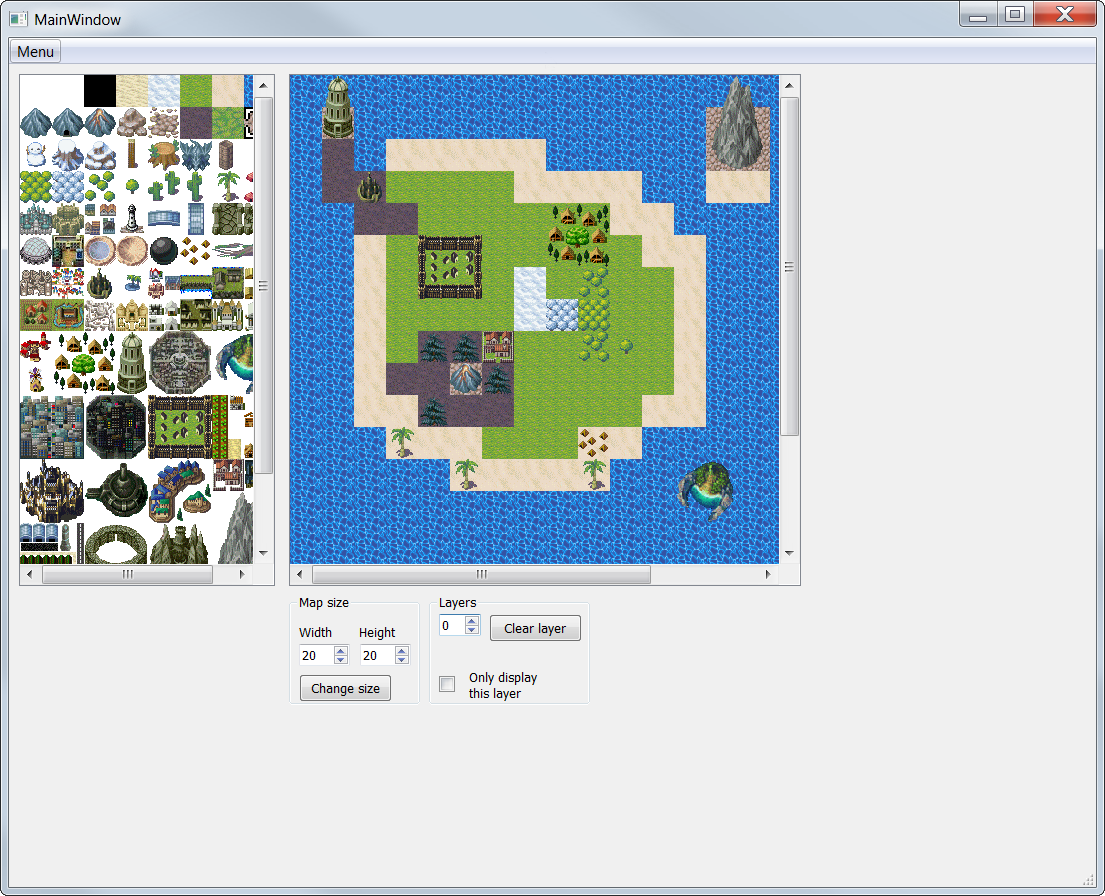
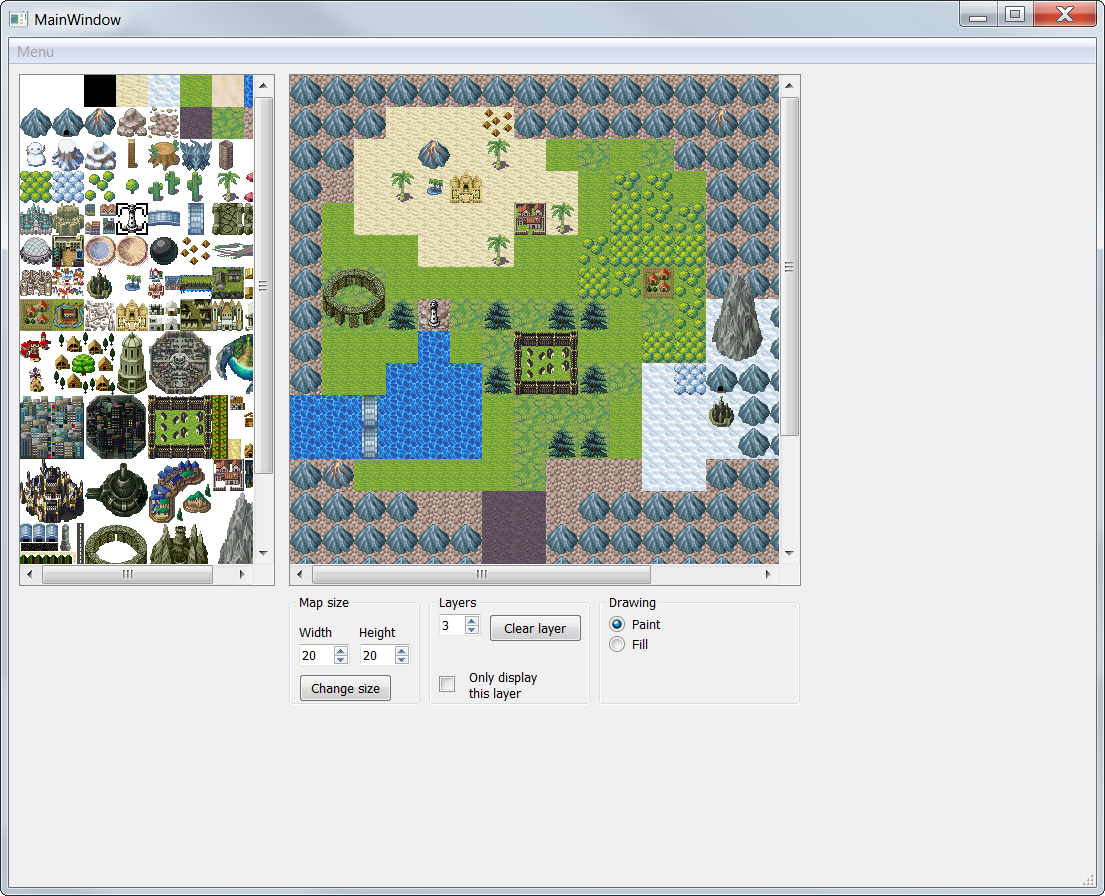
:construction: :tada: New paint modes

Changed region(s): [[0.2154, 0.0625, 0.7077, 0.7188], [0.0, 0.0312, 0.0615, 0.0625]]

diff --git a/ui/main_gui.py b/ui/main_gui.py
@@ -50,6 +50,8 @@ class Ui_MainWindow(object):
 
         self.remove_mode = False
 
+        self.drawing_style = 'paint'
+
     def setupUi(self, MainWindow):
         MainWindow.setObjectName("MainWindow")
         MainWindow.resize(1087, 849)
@@ -103,6 +105,15 @@ class Ui_MainWindow(object):
         self.pushButton_clear_layer = QtWidgets.QPushButton(self.groupBox_layers)
         self.pushButton_clear_layer.setGeometry(QtCore.QRect(60, 20, 93, 28))
         self.pushButton_clear_layer.setObjectName("pushButton_clear_layer")
+        self.groupBox_drawing = QtWidgets.QGroupBox(self.centralwidget)
+        self.groupBox_drawing.setGeometry(QtCore.QRect(590, 530, 201, 111))
+        self.groupBox_drawing.setObjectName("groupBox_drawing")
+        self.radioButton_paint = QtWidgets.QRadioButton(self.groupBox_drawing)
+        self.radioButton_paint.setGeometry(QtCore.QRect(10, 20, 95, 20))
+        self.radioButton_paint.setObjectName("radioButton_paint")
+        self.radioButton_fill = QtWidgets.QRadioButton(self.groupBox_drawing)
+        self.radioButton_fill.setGeometry(QtCore.QRect(10, 40, 95, 20))
+        self.radioButton_fill.setObjectName("radioButton_fill")
         MainWindow.setCentralWidget(self.centralwidget)
         self.menubar = QtWidgets.QMenuBar(MainWindow)
         self.menubar.setGeometry(QtCore.QRect(0, 0, 1087, 26))
@@ -138,6 +149,9 @@ class Ui_MainWindow(object):
         self.groupBox_layers.setTitle(_translate("MainWindow", "Layers"))
         self.label_only_display_layer.setText(_translate("MainWindow", "Only display this layer"))
         self.pushButton_clear_layer.setText(_translate("MainWindow", "Clear layer"))
+        self.groupBox_drawing.setTitle(_translate("MainWindow", "Drawing"))
+        self.radioButton_paint.setText(_translate("MainWindow", "Paint"))
+        self.radioButton_fill.setText(_translate("MainWindow", "Fill"))
         self.menuMenu.setTitle(_translate("MainWindow", "Menu"))
         self.actionImport_tileset.setText(_translate("MainWindow", "Import tileset"))
         self.actionImport_map.setText(_translate("MainWindow", "Import map"))
@@ -151,6 +165,9 @@ class Ui_MainWindow(object):
         self.checkBox_only_display_layer.stateChanged.connect(self.draw_map)
         self.pushButton_clear_layer.clicked.connect(self.clear_layer)
 
+        self.radioButton_paint.toggled.connect(lambda:self.change_drawing_style(self.radioButton_paint))
+        self.radioButton_fill.toggled.connect(lambda:self.change_drawing_style(self.radioButton_fill))
+
         self.graphicsScene_tileset.mousePressEvent = self.select_tile
 
         self.graphicsScene_map.mousePressEvent = self.mouse_pressed
@@ -160,6 +177,7 @@ class Ui_MainWindow(object):
     def hide_components(self):
         self.groupBox_map_size.hide()
         self.groupBox_layers.hide()
+        self.groupBox_drawing.hide()
         self.graphicsView_map.hide()
         self.graphicsView_tileset.hide()
 
@@ -239,6 +257,8 @@ class Ui_MainWindow(object):
 
         self.graphicsView_map.show()
         self.groupBox_layers.show()
+        self.groupBox_drawing.show()
+        self.radioButton_paint.setChecked(True)
 
     def import_map(self):
         pass
@@ -264,14 +284,19 @@ class Ui_MainWindow(object):
         """
         self.current_layer = self.spinBox_current_layer.value()
 
+    def change_drawing_style(self, button):
+        if button.text() == 'Paint':
+            self.drawing_style = 'paint'
+        elif button.text() == 'Fill':
+            self.drawing_style = 'fill'
+
     def add_tile_on_map(self, event):
-        # Grid coordinates
         x = floor(event.scenePos().x() / self.tile_size[0]) * self.tile_size[0]
         y = floor(event.scenePos().y() / self.tile_size[1]) * self.tile_size[1]
 
         if x >= self.map_canvas_size[0] or y >= self.map_canvas_size[1]:
             return
-
+        # Grid coordinates
         x_grid = int(x / self.tile_size[0])
         y_grid = int(y / self.tile_size[1])
 
@@ -283,6 +308,55 @@ class Ui_MainWindow(object):
 
         if tile_to_delete:
             self.graphicsScene_map.removeItem(tile_to_delete)
+
+        self.draw_map()
+
+    def get_neighbors(self, origin, node_list):
+        nei = [(origin[0] - 1, origin[1]),
+               (origin[0] + 1, origin[1]),
+               (origin[0], origin[1] - 1),
+               (origin[0], origin[1] + 1)]
+
+        if set(nei) <= set(node_list):
+            return nei
+
+        return [x for x in nei if x in node_list]
+
+    def get_adjacent(self, x_origin, y_origin, original_tile):
+        final_tile_list = set()
+        visited_nodes = set()
+        queue = []
+        queue.append((x_origin, y_origin))
+        node_list = [(x, y) for x in range(floor(self.map_canvas_size[0] / self.tile_size[0])) for y in range(floor(self.map_canvas_size[1] / self.tile_size[1]))]
+
+        while queue:
+            node = queue.pop(0)
+            if (node not in visited_nodes
+            and np.array_equal(self.map_as_array[node[0], node[1], self.current_layer], original_tile)):
+                final_tile_list.add(node)
+                visited_nodes.add(node)
+
+                for neighbor in self.get_neighbors(node, node_list):
+                    if neighbor not in final_tile_list:
+                        queue.append(neighbor)
+
+        return final_tile_list
+
+
+    def fill_with_tile(self, event):
+
+        x = event.scenePos().x()
+        y = event.scenePos().y()
+
+        x_grid = floor(x / self.tile_size[0])
+        y_grid = floor(y / self.tile_size[1])
+
+        original_tile = self.map_as_array[x_grid, y_grid, self.current_layer]
+
+        tiles_to_fill = list(self.get_adjacent(x_grid, y_grid, original_tile))
+
+        for tile_to_paint in tiles_to_fill:
+            self.map_as_array[tile_to_paint[0], tile_to_paint[1], self.current_layer] = self.selected_tile_coord
 
         self.draw_map()
 
@@ -318,16 +392,29 @@ class Ui_MainWindow(object):
             self.draw_map()
 
     def mouse_pressed(self, event):
-        self.is_dragging = True
-        self.add_tile_on_map(event)
+        if self.drawing_style == 'paint':
+            self.is_dragging = True
+            self.add_tile_on_map(event)
+
+        elif self.drawing_style == 'fill':
+            self.fill_with_tile(event)
 
 
     def mouse_released(self, event):
-        self.is_dragging = False
-        self.last_coordinates = [-1, -1]
+        if self.drawing_style == 'paint':
+            self.is_dragging = False
+            self.last_coordinates = [-1, -1]
 
     def mouse_moved(self, event):
         if not self.is_dragging:
+            return
+
+        # No need to do the rest of the function if the mouse isn't in the map
+        if event.scenePos().x() > self.map_canvas_size[0] or event.scenePos().y() > self.map_canvas_size[1]:
+            return
+
+        # For now, this function is only used to paint
+        if self.drawing_style != 'paint':
             return
 
         x = floor(event.scenePos().x() / self.tile_size[0])

diff --git a/ui/aaa.py b/ui/aaa.py
@@ -1,0 +1,112 @@
+# -*- coding: utf-8 -*-
+
+# Form implementation generated from reading ui file 'main.ui'
+#
+# Created by: PyQt5 UI code generator 5.11.3
+#
+# WARNING! All changes made in this file will be lost!
+
+from PyQt5 import QtCore, QtGui, QtWidgets
+
+class Ui_MainWindow(object):
+    def setupUi(self, MainWindow):
+        MainWindow.setObjectName("MainWindow")
+        MainWindow.resize(1087, 849)
+        self.centralwidget = QtWidgets.QWidget(MainWindow)
+        self.centralwidget.setObjectName("centralwidget")
+        self.graphicsView_map = QtWidgets.QGraphicsView(self.centralwidget)
+        self.graphicsView_map.setGeometry(QtCore.QRect(280, 10, 512, 512))
+        self.graphicsView_map.setAlignment(QtCore.Qt.AlignLeading|QtCore.Qt.AlignLeft|QtCore.Qt.AlignTop)
+        self.graphicsView_map.setDragMode(QtWidgets.QGraphicsView.NoDrag)
+        self.graphicsView_map.setTransformationAnchor(QtWidgets.QGraphicsView.AnchorViewCenter)
+        self.graphicsView_map.setObjectName("graphicsView_map")
+        self.graphicsView_tileset = QtWidgets.QGraphicsView(self.centralwidget)
+        self.graphicsView_tileset.setGeometry(QtCore.QRect(10, 10, 256, 512))
+        self.graphicsView_tileset.setObjectName("graphicsView_tileset")
+        self.groupBox_map_size = QtWidgets.QGroupBox(self.centralwidget)
+        self.groupBox_map_size.setGeometry(QtCore.QRect(280, 530, 131, 111))
+        self.groupBox_map_size.setObjectName("groupBox_map_size")
+        self.spinBox_map_width = QtWidgets.QSpinBox(self.groupBox_map_size)
+        self.spinBox_map_width.setGeometry(QtCore.QRect(10, 50, 51, 22))
+        self.spinBox_map_width.setMinimum(1)
+        self.spinBox_map_width.setMaximum(999999)
+        self.spinBox_map_width.setObjectName("spinBox_map_width")
+        self.label_map_width = QtWidgets.QLabel(self.groupBox_map_size)
+        self.label_map_width.setGeometry(QtCore.QRect(10, 30, 41, 16))
+        self.label_map_width.setObjectName("label_map_width")
+        self.spinBox_map_height = QtWidgets.QSpinBox(self.groupBox_map_size)
+        self.spinBox_map_height.setGeometry(QtCore.QRect(71, 50, 51, 22))
+        self.spinBox_map_height.setMinimum(1)
+        self.spinBox_map_height.setMaximum(999999)
+        self.spinBox_map_height.setObjectName("spinBox_map_height")
+        self.label_map_height = QtWidgets.QLabel(self.groupBox_map_size)
+        self.label_map_height.setGeometry(QtCore.QRect(70, 30, 55, 16))
+        self.label_map_height.setObjectName("label_map_height")
+        self.pushButton_map_size = QtWidgets.QPushButton(self.groupBox_map_size)
+        self.pushButton_map_size.setGeometry(QtCore.QRect(10, 80, 93, 28))
+        self.pushButton_map_size.setObjectName("pushButton_map_size")
+        self.groupBox_layers = QtWidgets.QGroupBox(self.centralwidget)
+        self.groupBox_layers.setGeometry(QtCore.QRect(420, 530, 161, 111))
+        self.groupBox_layers.setObjectName("groupBox_layers")
+        self.checkBox_only_display_layer = QtWidgets.QCheckBox(self.groupBox_layers)
+        self.checkBox_only_display_layer.setGeometry(QtCore.QRect(60, 20, 16, 21))
+        self.checkBox_only_display_layer.setText("")
+        self.checkBox_only_display_layer.setObjectName("checkBox_only_display_layer")
+        self.label_only_display_layer = QtWidgets.QLabel(self.groupBox_layers)
+        self.label_only_display_layer.setGeometry(QtCore.QRect(80, 10, 71, 41))
+        self.label_only_display_layer.setWordWrap(True)
+        self.label_only_display_layer.setObjectName("label_only_display_layer")
+        self.spinBox_current_layer = QtWidgets.QSpinBox(self.groupBox_layers)
+        self.spinBox_current_layer.setGeometry(QtCore.QRect(10, 20, 42, 22))
+        self.spinBox_current_layer.setObjectName("spinBox_current_layer")
+        self.pushButton_clear_layer = QtWidgets.QPushButton(self.groupBox_layers)
+        self.pushButton_clear_layer.setGeometry(QtCore.QRect(10, 80, 93, 28))
+        self.pushButton_clear_layer.setObjectName("pushButton_clear_layer")
+        self.groupBox_drawing = QtWidgets.QGroupBox(self.centralwidget)
+        self.groupBox_drawing.setGeometry(QtCore.QRect(590, 530, 201, 111))
+        self.groupBox_drawing.setObjectName("groupBox_drawing")
+        self.radioButton_paint = QtWidgets.QRadioButton(self.groupBox_drawing)
+        self.radioButton_paint.setGeometry(QtCore.QRect(10, 20, 95, 20))
+        self.radioButton_paint.setObjectName("radioButton_paint")
+        self.radioButton_fill = QtWidgets.QRadioButton(self.groupBox_drawing)
+        self.radioButton_fill.setGeometry(QtCore.QRect(10, 40, 95, 20))
+        self.radioButton_fill.setObjectName("radioButton_fill")
+        MainWindow.setCentralWidget(self.centralwidget)
+        self.menubar = QtWidgets.QMenuBar(MainWindow)
+        self.menubar.setGeometry(QtCore.QRect(0, 0, 1087, 26))
+        self.menubar.setObjectName("menubar")
+        self.menuMenu = QtWidgets.QMenu(self.menubar)
+        self.menuMenu.setObjectName("menuMenu")
+        MainWindow.setMenuBar(self.menubar)
+        self.statusbar = QtWidgets.QStatusBar(MainWindow)
+        self.statusbar.setObjectName("statusbar")
+        MainWindow.setStatusBar(self.statusbar)
+        self.actionImport_tileset = QtWidgets.QAction(MainWindow)
+        self.actionImport_tileset.setObjectName("actionImport_tileset")
+        self.actionImport_map = QtWidgets.QAction(MainWindow)
+        self.actionImport_map.setObjectName("actionImport_map")
+        self.menuMenu.addAction(self.actionImport_tileset)
+        self.menuMenu.addAction(self.actionImport_map)
+        self.menuMenu.addSeparator()
+        self.menubar.addAction(self.menuMenu.menuAction())
+
+        self.retranslateUi(MainWindow)
+        QtCore.QMetaObject.connectSlotsByName(MainWindow)
+
+    def retranslateUi(self, MainWindow):
+        _translate = QtCore.QCoreApplication.translate
+        MainWindow.setWindowTitle(_translate("MainWindow", "MainWindow"))
+        self.groupBox_map_size.setTitle(_translate("MainWindow", "Map size"))
+        self.label_map_width.setText(_translate("MainWindow", "Width"))
+        self.label_map_height.setText(_translate("MainWindow", "Height"))
+        self.pushButton_map_size.setText(_translate("MainWindow", "Change size"))
+        self.groupBox_layers.setTitle(_translate("MainWindow", "Layers"))
+        self.label_only_display_layer.setText(_translate("MainWindow", "Only display this layer"))
+        self.pushButton_clear_layer.setText(_translate("MainWindow", "Clear layer"))
+        self.groupBox_drawing.setTitle(_translate("MainWindow", "Drawing"))
+        self.radioButton_paint.setText(_translate("MainWindow", "Paint"))
+        self.radioButton_fill.setText(_translate("MainWindow", "Fill"))
+        self.menuMenu.setTitle(_translate("MainWindow", "Menu"))
+        self.actionImport_tileset.setText(_translate("MainWindow", "Import tileset"))
+        self.actionImport_map.setText(_translate("MainWindow", "Import map"))
+
